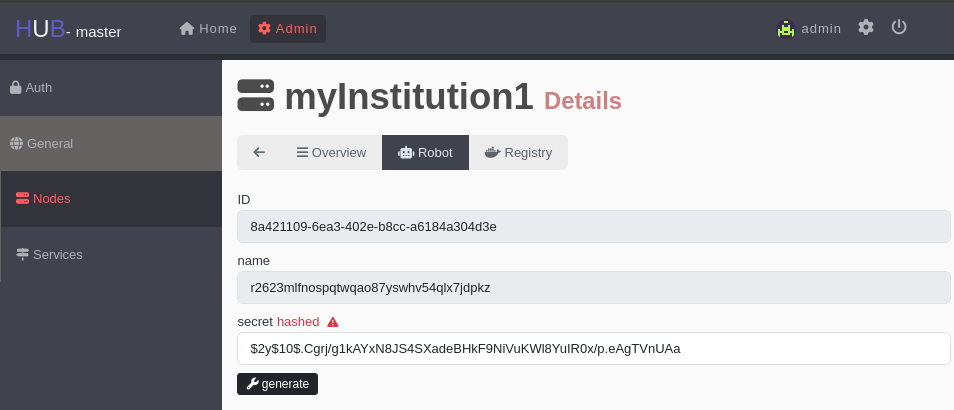
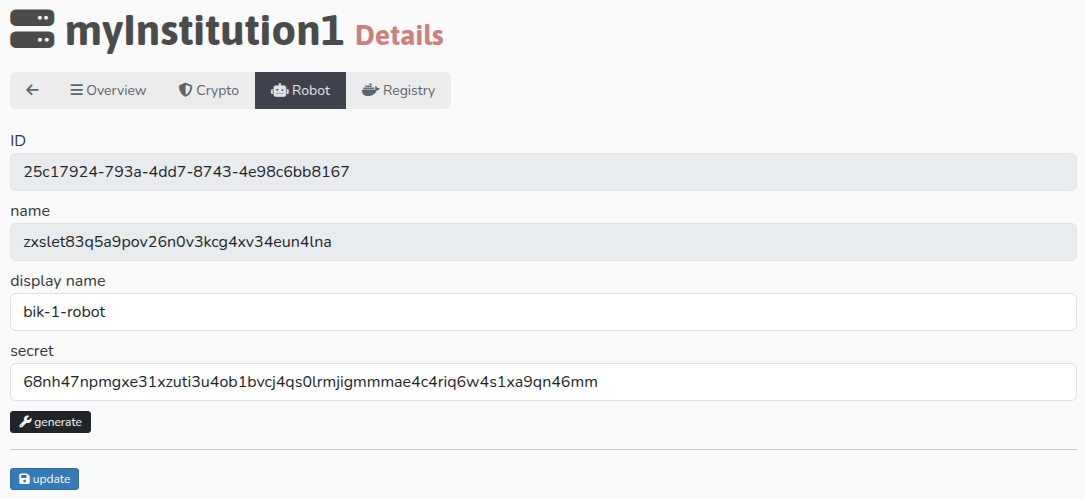
feat(node): add instructions for crypto

diff --git a/src/guide/deployment/node-installation.md b/src/guide/deployment/node-installation.md
@@ -1,7 +1,10 @@
 # Installation
-This section will provide installation instructions for installing a node.<br><br>**These instructions assume that the
-[node has been registered in the UI](./node-registration#creating-a-node-in-the-hub) and that you have obtained the 
-[credentials for your node's robot](./node-registration#credentials-for-deployment).**
+This section will provide installation instructions for installing a node.
+
+**These instructions assume that you have done the following:**
+* [Node has been registered in the Hub UI](./node-registration#creating-a-node-in-the-hub) 
+* [Credentials for your node's robot were generated and saved](./node-registration#robot-credentials)
+* [A keypair was generated](./node-registration#crypto) and the private key was saved as `private_key.pem`
 
 ## Requirements
 
@@ -13,6 +16,7 @@ This section will provide installation instructions for installing a node.<br><b
 ### Networking
 * Ports 22 and 443 are open
 * Access to the internet for communicating with the Hub
+* A hostname that directs to the server running the FLAME Node software
 
 ### Software
 ::: tip
@@ -46,37 +50,7 @@ In order to deploy a node, you will need the following pieces of information for
 2. Secret (not hashed!)
 
 With this information, you can either edit the `values.yaml` file included with the FLAME Node helm chart or create
-you own values template file to be applied to the installation and upgrades of the node such that it looks like this:
-
-```yaml
-global:
-  hub:
-    endpoints:
-      ...
-    auth:
-      robotUser: <Robot ID>
-      robotSecret: <Robot Secret>
-```
-
-### Keycloak
-By default, the FLAME Node package deploys keycloak as part of the installation. The clients and their secrets are
-all generated and configured within this included IDP. If you wish to your own IDP, then clients for the Node Hub
-Adapter and the Node UI will have to be created and their secrets set in the values template. See the
-[Using Your Own IDP](#using-your-own-idp) section for more information.
-
-### Ingress
-To allow domain names to be used for individual services in k8s, the ingress must be enabled and the hostnames set,
-otherwise the ports for individual services must be port forwarded to access the GUIs e.g.
-
-```bash
-kubectl port-forward svc/flame-node-node-ui 3000:3000
-```
-
-The values template file can be used to enable ingress and specify hostname for the services:
-
-::: warning Check your DNS
-Be sure any domain names you set for these applications are configured in your DNS to point towards your k8s cluster!
-:::
+your own values template file to be used during deployment. Here is a minimal example of a values file:
 
 ```yaml
 global:
@@ -88,18 +62,21 @@ global:
     ingress:
       enabled: true
       hostname: https://your.node.ui.domain.com
-
-keycloak:
-  auth:
-    adminUser: admin
-    adminPassword: admin
 ```
 
+Be sure to enable `ingress` in your values file, otherwise, your hostname will not resolve.
+
 ::: info Note
-The default installation method assumes that if you have SSL enabled (i.e. using HTTPS), then this is handled by 
-a reverse proxy. If this is not the case, you need to disable the proxy headers for keycloak like shown in this 
+The default installation method assumes that if you have SSL enabled (i.e. using HTTPS), then this is handled by
+a reverse proxy. If this is not the case, you need to disable the proxy headers for keycloak like shown in this
 <a href="/files/values_no_reverse_proxy_example.yaml" download>example</a>.
 :::
+
+### Keycloak
+By default, the FLAME Node package deploys keycloak as part of the installation. The clients and their secrets are
+all generated and configured within this included IDP. If you wish to your own IDP, then clients for the Node Hub
+Adapter and the Node UI will have to be created and their secrets set in the values template. See the
+[Using Your Own IDP](#using-your-own-idp) section for more information.
 
 ### Using Your Own IDP
 For better security, this software uses Keycloak for authenticating the various services and users that make up FLAME. 
@@ -115,9 +92,12 @@ An example of how to configure this in for your cluster can be seen in this
 <a href="/files/values_separate_idp.yaml" download>separate IDP example</a>.
 
 ## Installation
+At this point, you should have the following:
+* A values file (e.g. `my-values.yaml`) with the robot credentials for this node
+* A private key stored in a file called `private_key.pem`
 
-Once you have created and configured your values file (e.g. `my-values.yaml`) with the required credentials, 
-it can then be used to install the FLAME Node.
+If both of these files are in your current working directory, then you can proceed with deploying the FLAME Node by 
+either using the FLAME repo <u>**OR**</u> cloning the Github repository.
 
 ::: info Note
 The Helm release name `flame-node` is used in the following examples, but any release name can be used in place of it.
@@ -140,10 +120,18 @@ Users can clone the FLAME Node Helm charts by cloning the
 `helm` [repository](https://github.com/PrivateAIM/helm) from GitHub. The `charts/flame-node/` directory
 contains the parent helm chart used for the deployment.
 
-First you must compile the sub-charts which will package the Helm charts for the individual components and bundle 
-them in a folder in the `flame-node/` directory:
 ```bash
-cd charts/flame-node/
+git clone https://github.com/PrivateAIM/helm.git
+```
+
+Copy your edited values (e.g. `my-values.yaml`) and private key files to `helm/charts/flame-node/`
+```bash
+cp my-values.yaml private_key.pem ./helm/charts/flame-node/
+```
+
+Navigate to the FLAME Node helm chart directory and compile its sub-charts:
+```bash
+cd helm/charts/flame-node/
 helm dependency build
 ```
 
@@ -165,7 +153,8 @@ running the services can port forward the individual containers for each of the 
 browser using the forwarded ports.
 
 ### Disable Ingress
-When deploying the FLAME node without a domain, the values file must be configured to disable ingress for the services:
+When deploying the FLAME node without a hostname, the values file must be configured to disable ingress for the 
+services:
 ```yaml
 global:
   hub:

diff --git a/src/guide/deployment/node-registration.md b/src/guide/deployment/node-registration.md
@@ -30,9 +30,32 @@ node.
 
 ## Credentials for Deployment
 
-Once the node is created, admins can access the "Robot" tab to obtain and update the credentials needed for deploying 
-the node software on their server. One this page, there are 2 needed pieces of information for the node's robot: its 
-ID and secret. 
+Once the node is created, admins can access the "Robot" and "Crypto" tabs which contain needed credentials and keys 
+for deploying the node software on their server. 
+
+### Crypto
+To encrypt data that needs to be sent between different nodes, each node needs a crytographic key that can be used 
+to encrypt/decrypt the information. The "Crypto" tab allows the admin to generate a crytopgraphic key pair for this 
+purpose.
+
+![Hub Crypto](/images/ui_images/hub_crypto.png)
+
+Navigate to the "Crypto" tab and click on the "Generate" button at the bottom of the window. A public and private key 
+pair will be generated. The user should copy the contents of the "PrivateKey" section to a new file on the server 
+which is deploying the FLAME Node and name it `private_key.pem`.
+
+::: tip
+Be sure to include the `-----BEGIN PRIVATE KEY-----` and `-----END PRIVATE KEY-----` sections when copying the private 
+key.
+:::
+
+::: danger Don't Forget to Click Save!
+Be sure to click "Save" when you generate a new key pair, otherwise the public key stored in the hub and the private 
+key used during deployment will not be from the same pair.
+:::
+
+### Robot Credentials
+On this page, there are two pieces of information required for the deploying the FLAME Node: the robot ID and secret. 
 
 Because the secret was automatically created when the node was registered and then hashed, we need to generate a new 
 one. Click the "generate" button below the secret text field to create a new secret and copy this string somewhere 
